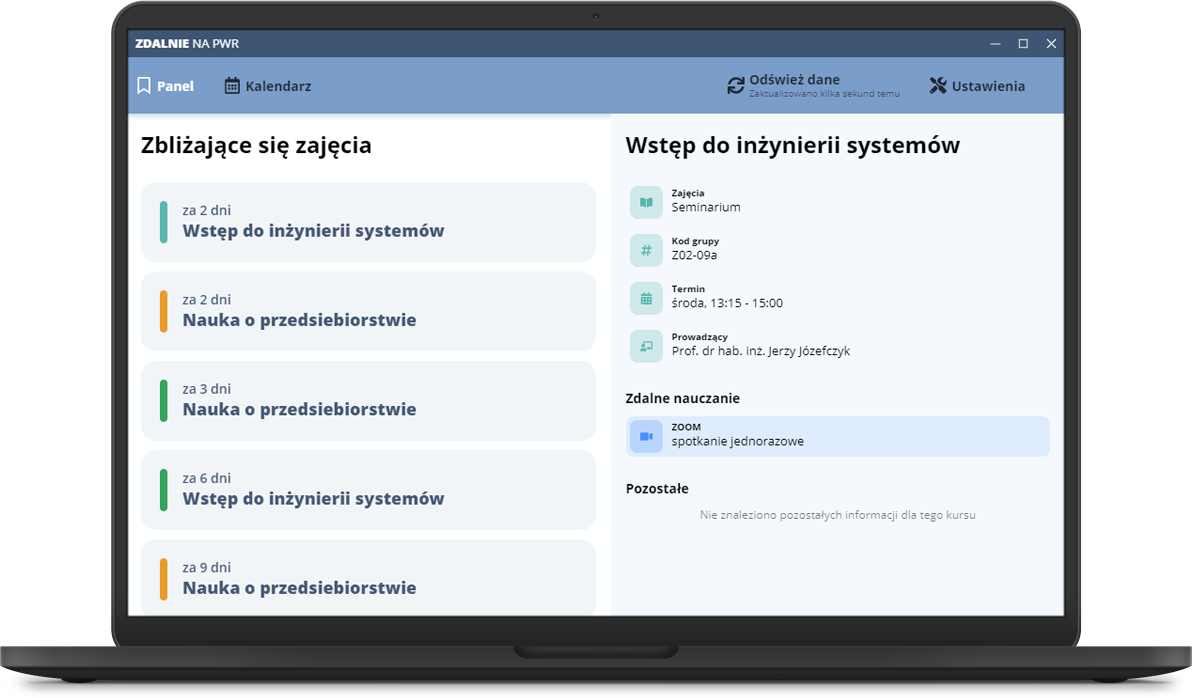
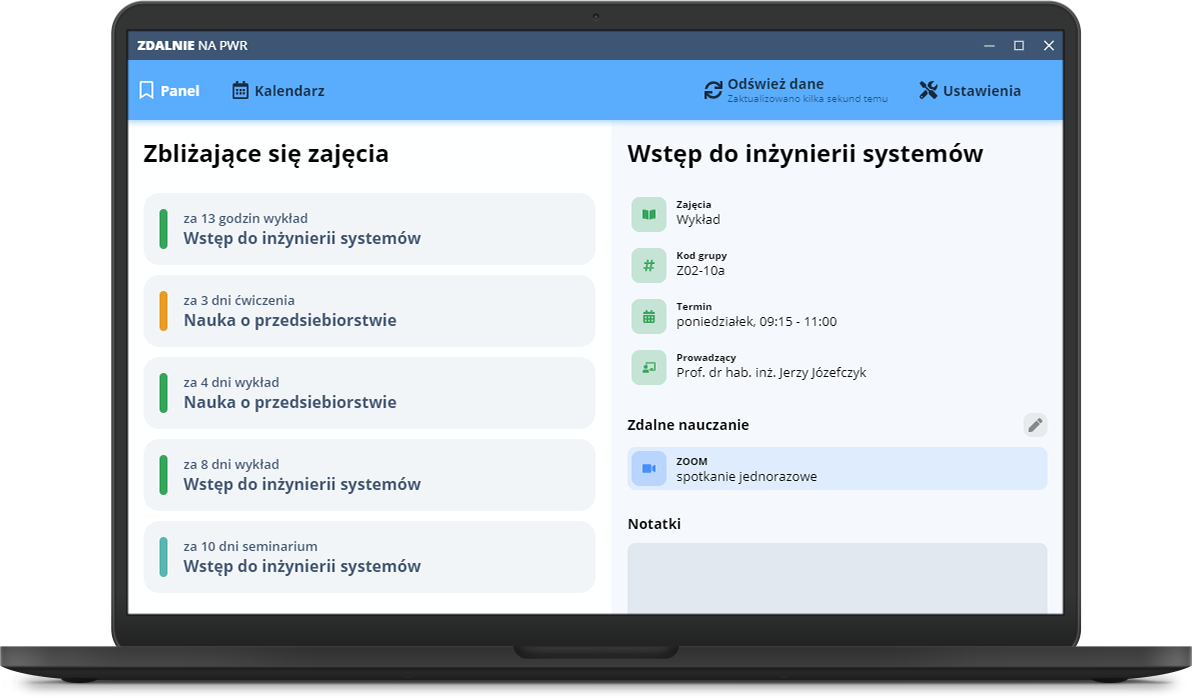
refactor: add new styles to calendar, add link indicator, improve app color

diff --git a/app/components/Calendar/Calendar.tsx b/app/components/Calendar/Calendar.tsx
@@ -2,11 +2,12 @@ import React, { useRef } from 'react'
 import FullCalendar, { EventClickArg } from '@fullcalendar/react'
 import timeGridPlugin from '@fullcalendar/timegrid'
 import locale from '@fullcalendar/core/locales/pl'
+import { EventContentArg } from '@fullcalendar/core'
+import { FaChevronLeft, FaChevronRight, FaLink } from 'react-icons/all'
+import styled from '@emotion/styled'
 
 import { IEvent, IEventFullCalendar } from 'domain/event'
-import { FaChevronLeft, FaChevronRight } from 'react-icons/all'
-import styled from '@emotion/styled'
-import { EventContentArg } from '@fullcalendar/core'
+import { PlatformType } from 'domain/course'
 
 interface Props {
   events: IEventFullCalendar[]
@@ -19,6 +20,38 @@ const CalendarWrapper = styled.div`
   display: flex;
   height: 100%;
   overflow: hidden;
+
+  --fc-border-color: #dfeafa;
+
+  .fc-scrollgrid {
+    border: none;
+  }
+
+  .fc-timegrid-slots {
+    border: 1px solid var(--fc-border-color, #ddd);
+  }
+
+  .fc-col-header-cell-cushion {
+    font-size: 13px;
+  }
+
+  .fc-timegrid-axis {
+    border: none;
+  }
+
+  .fc-theme-standard th {
+    border: none;
+  }
+
+  .fc-scrollgrid-section-sticky > * {
+    background: #e7f1ff;
+    padding: 6px 0;
+  }
+
+  .fc-timegrid-slot-label-cushion {
+    font-size: 13px;
+    color: #7e91a9;
+  }
 
   .fc-toolbar.fc-header-toolbar {
     margin-bottom: 10px;
@@ -40,6 +73,27 @@ const CalendarWrapper = styled.div`
 
   .fc-view-harness {
     overflow-y: auto;
+  }
+
+  .fc-button-primary {
+    background: #1e97ff;
+    border: none;
+    border-color: transparent;
+    border-radius: 8px;
+
+    &:hover {
+      background: #0d74ce;
+    }
+
+    &:focus,
+    &:active {
+      box-shadow: none;
+      border-color: transparent;
+    }
+
+    &:disabled {
+      background: #a5a5a5;
+    }
   }
 `
 
@@ -70,6 +124,13 @@ const EventType = styled.span`
   font-weight: 700;
 `
 
+const EventLink = styled.span`
+  position: absolute;
+  right: 3px;
+  bottom: 5px;
+  font-size: 12px;
+`
+
 const EventName = styled.span`
   margin: 0;
   font-weight: 600;
@@ -77,6 +138,8 @@ const EventName = styled.span`
   line-height: 1.2;
   overflow-wrap: break-word;
 `
+
+const TYPES = [PlatformType.ZOOM, PlatformType.TEAMS]
 
 const Calendar = ({ events, onEventClick }: Props) => {
   const calendarRef = useRef<FullCalendar | null>(null)
@@ -109,12 +172,19 @@ const Calendar = ({ events, onEventClick }: Props) => {
   // TODO: improve styles
   const renderEventContent = (eventInfo: EventContentArg) => {
     const event = eventInfo.event.extendedProps.resource
+    const hasLink = TYPES.some((item) => event.platforms[item])
+
     return (
       <EventContent>
         <EventHeader>
           {eventInfo.timeText} <EventType>{event.type}</EventType>
         </EventHeader>
         <EventName>{event.name}</EventName>
+        {hasLink && (
+          <EventLink>
+            <FaLink />
+          </EventLink>
+        )}
       </EventContent>
     )
   }
@@ -127,7 +197,9 @@ const Calendar = ({ events, onEventClick }: Props) => {
         height="auto"
         timeZone="local"
         plugins={[timeGridPlugin]}
-        initialView="timeGridWeek"
+        initialView="timeGrid"
+        dayCount={5}
+        duration={{ days: 5 }}
         allDaySlot={false}
         slotDuration="00:30:00"
         slotMinTime="07:00:00"

diff --git a/app/components/SmailModal/SmailPasswordChangeModal.tsx b/app/components/SmailModal/SmailPasswordChangeModal.tsx
@@ -2,10 +2,7 @@ import React from 'react'
 import { useSelector } from 'react-redux'
 import styled from '@emotion/styled'
 import { RootState } from 'store'
-import {
-  Dialog, DialogContentText,
-  DialogTitle
-} from '@material-ui/core'
+import { Dialog, DialogContentText, DialogTitle } from '@material-ui/core'
 import Button from 'components/Button'
 import LoginForm from 'components/LoginForm'
 
@@ -23,8 +20,8 @@ interface Props {
 }
 
 const DialogContent = styled.div`
-width: 450px;
-padding: 10px 30px 20px 30px;
+  width: 450px;
+  padding: 10px 30px 20px 30px;
 `
 
 const SmailPasswordChangeModal = (props: Props): JSX.Element => {
@@ -45,16 +42,19 @@ const SmailPasswordChangeModal = (props: Props): JSX.Element => {
     <Dialog open={open} onClose={onClose}>
       <DialogContent>
         <DialogTitle>Zmień hasło do poczty studenckiej</DialogTitle>
-        {forcedUpdate && <DialogContentText>
-          Nie udało się zalogować do poczty zapisanym hasłem.
-          Najprawdopodobniej nastąpiła jego zmiana, prossimy wprowadź nowe.
-        </DialogContentText>}
+        {forcedUpdate && (
+          <DialogContentText>
+            Nie udało się zalogować do poczty zapisanym hasłem. Najprawdopodobniej nastąpiła jego zmiana, prosimy
+            wprowadź nowe.
+          </DialogContentText>
+        )}
         <Space size={1} />
         <LoginForm
           color={THEME.colors.palette.purple}
-          {...{ onSubmit, fields, validationSchema: mailValidationSchema, submitText }}
+          validationSchema={mailValidationSchema}
+          {...{ onSubmit, fields, submitText }}
         />
-        <Button glow color={THEME.colors.palette.purple.dark} fullWidth variant="primary" onClick={onClose}>
+        <Button fullWidth variant="transparent" onClick={onClose}>
           Anuluj
         </Button>
       </DialogContent>

diff --git a/app/pages/ConfigurationPage/ConfigurationPage.tsx b/app/pages/ConfigurationPage/ConfigurationPage.tsx
@@ -100,10 +100,7 @@ const JsosStep = ({ onSubmit, fields, validationSchema, prevStep }: StepWithLogi
       <Space size={2} />
       <h2>Zaloguj się do JSOS</h2>
       <Space size={2} />
-      <LoginForm
-        color={THEME.colors.palette.purple}
-        {...{ onSubmit, fields, validationSchema }}
-      />
+      <LoginForm color={THEME.colors.palette.purple} {...{ onSubmit, fields, validationSchema }} />
       <Space size={2} />
       <FooterInfo color={THEME.colors.palette.purple.light}>
         Aktualnie jedyną informacją pobieraną z JSOS jest siatka zajęć oraz lista kursów. Cały proces wykonywany jest
@@ -122,10 +119,7 @@ const MailStep = ({ onSubmit, fields, validationSchema, prevStep }: StepWithLogi
       <Space size={2} />
       <h2>Zaloguj się do poczty studenckiej</h2>
       <Space size={2} />
-      <LoginForm
-        color={THEME.colors.palette.blue}
-        {...{ onSubmit, fields: fields, validationSchema }}
-      />
+      <LoginForm color={THEME.colors.palette.blue} {...{ onSubmit, fields, validationSchema }} />
       <Space size={2} />
       <FooterInfo color={THEME.colors.palette.blue.light}>
         Logowanie do poczty wymagane jest do pobierania automatycznie linków do Zooma oraz linków do Teamsów. Po co
@@ -270,8 +264,8 @@ const ConfigurationPage = () => {
   }
 
   const mailFields = {
-    login: { defaultValue: mailDataLogin.login, placeholder: 'indeks' },
-    password: { defaultValue: mailDataLogin.password }
+    login: { defaultValue: mailDataLogin.login, placeholder: 'Indeks' },
+    password: { defaultValue: mailDataLogin.password },
   }
 
   const handleExitConfiguration = () => {

diff --git a/app/pages/SettingsPage/SettingsPage.tsx b/app/pages/SettingsPage/SettingsPage.tsx
@@ -19,27 +19,14 @@ const Wrapper = styled.div`
   justify-content: center;
   align-items: center;
 `
-// TODO: use correct colors
-const ClearDataButton = styled.button`
-  border: none;
-  background: #b81e44;
-  color: #fff;
-  border-radius: 8px;
-  padding: 10px 20px;
-  font-weight: 600;
-  transition: all 0.1s ease-in-out;
-  box-shadow: 0 5px 8px -2px #ddaab7;
-  margin-top: 50px;
-  cursor: pointer;
-
-  &:hover {
-    background: #830827;
-  }
-`
 
 const Text = styled.p`
   font-size: 15px;
   color: #292b31;
+
+  a {
+    color: #1078ff;
+  }
 `
 
 const SettingsPage = () => {
@@ -77,12 +64,19 @@ const SettingsPage = () => {
         </a>
       </Text>
       <Text>Wersja aplikacji {APP_VERSION}</Text>
-      <ClearDataButton onClick={logoutUser}>Wyczyść dane aplikacji</ClearDataButton>
-      <div style={{ margin: '20px 0' }}>
-        <Button glow color={THEME.colors.palette.purple.main} variant="primary" onClick={handlePasswordChange}>
-          Zmien hasło do poczty
-        </Button>
-      </div>
+      <Button
+        glow
+        color={THEME.colors.palette.purple.main}
+        variant="primary"
+        onClick={handlePasswordChange}
+        style={{ margin: '16px 0' }}
+      >
+        Zmień hasło do poczty
+      </Button>
+
+      <Button glow color="#b81e44" variant="primary" onClick={logoutUser}>
+        Wyczyść dane aplikacji
+      </Button>
       <SmailPasswordChangeModal
         forcedUpdate={forcePasswordUpdate}
         open={isPasswordChangeModalOpen}

diff --git a/app/components/AppBar/AppBar.tsx b/app/components/AppBar/AppBar.tsx
@@ -15,7 +15,7 @@ import { setFetchStatusMail } from 'actions/mail'
 import { parseDateToString } from 'utils/date'
 
 const AppBarWrapper = styled.div<{ isFullscreen: boolean }>`
-  background: #759ccb;
+  background: #41aaff;
   height: 60px;
   margin-top: ${({ isFullscreen }) => (isFullscreen ? 0 : MENU_BAR_HEIGHT)};
   flex-shrink: 0;
@@ -24,7 +24,8 @@ const AppBarWrapper = styled.div<{ isFullscreen: boolean }>`
   align-items: center;
   justify-content: space-between;
   padding: 0 10px;
-  box-shadow: 0 2px 6px 0 #bed0e6;
+  box-shadow: 0 2px 6px 0 #9ed0ff;
+  z-index: 999;
 `
 
 const ActionsWrapper = styled.div`
